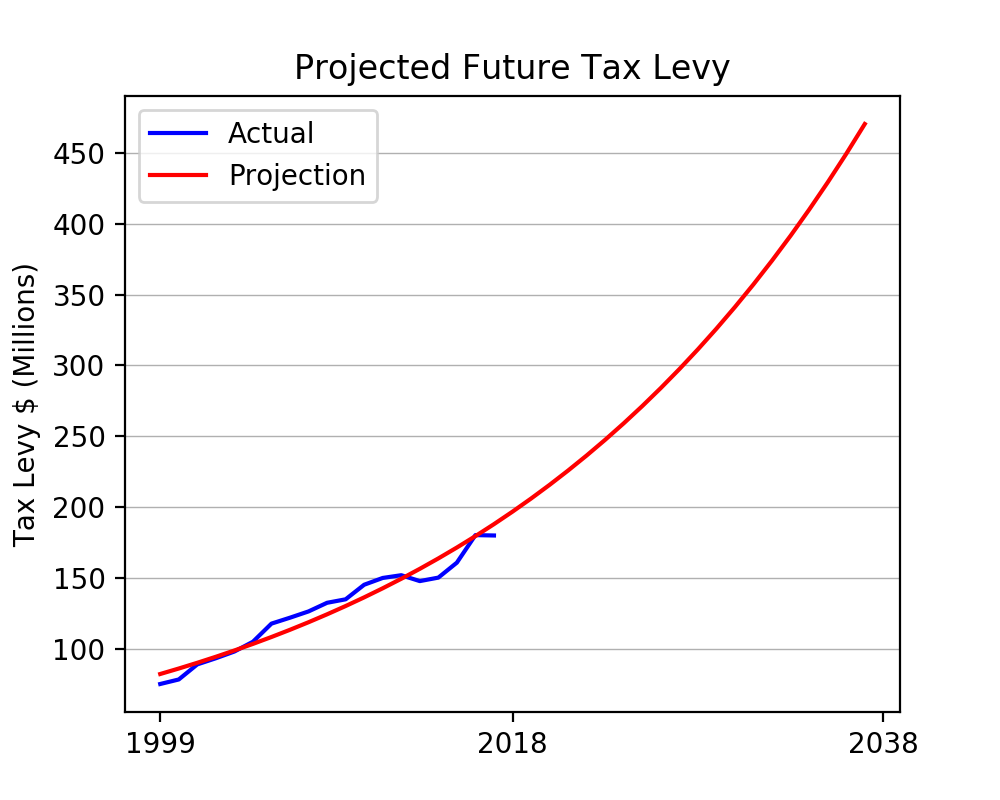
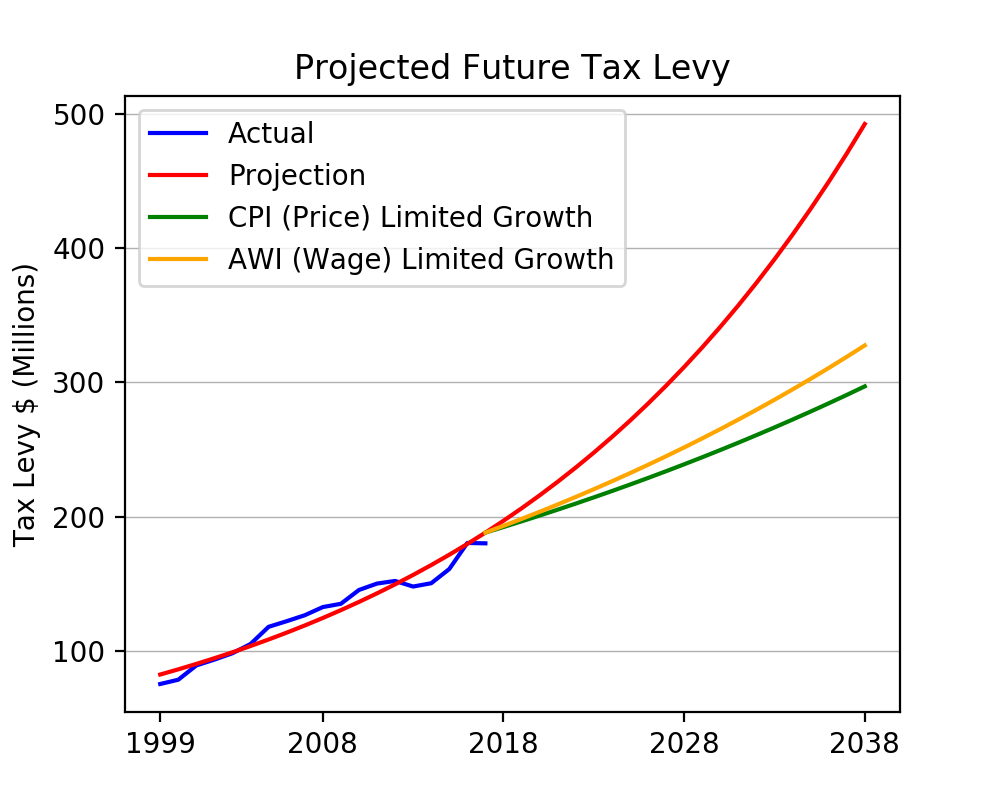
Updatd projections

diff --git a/scripts/projection.py b/scripts/projection.py
@@ -4,19 +4,58 @@ import matplotlib.pyplot as plt
 pivot = pd.read_csv("oak park tax history summary.csv")
 pivot = pivot[pivot['Year'] != 'All']
 baseyear = 2017
-log = np.log(pivot['All'])
+loglevy = np.log(pivot['All'])
+logcpi = np.log(pivot['CPI'])
+logawi = np.log(pivot['AWI'])
 year = np.array(pivot.Year).astype(int)
-fit = np.polyfit(year, y=log, deg=1)
-logfit = pd.DataFrame(index=pd.Series(range(1999, 2038)),  data=np.exp(
-    np.array(pd.Series(range(1999, 2038))) * fit[0] + fit[1]))
+loglevyfit = np.polyfit(year, y=loglevy, deg=1)
+logcpifit =  np.polyfit(year, y=logcpi, deg=1)
+logawifit =  np.polyfit(year, y=logawi, deg=1)
+levyfit = pd.DataFrame(index=pd.Series(range(1999, 2039)),  data=np.exp(
+    np.array(pd.Series(range(1999, 2039))) * loglevyfit[0] + loglevyfit[1]))
+
+cpilevyfit = pd.DataFrame(index=pd.Series(range(1999, 2039)),  data=np.exp(
+    np.array(pd.Series(range(1999, 2039))) * logcpifit[0] + loglevyfit[1]))
+
+cpifit = pd.DataFrame(index=pd.Series(range(1999, 2039)),  data=np.exp(
+    np.array(pd.Series(range(1999, 2039))) * logcpifit[0] + logcpifit[1]))
+awifit = pd.DataFrame(index=pd.Series(range(1999, 2039)),  data=np.exp(
+    np.array(pd.Series(range(1999, 2039))) * logawifit[0] + logawifit[1]))
 levy = pd.DataFrame(pivot)
 levy = levy.set_index(np.array(levy.Year).astype(int))
-tenkfit = pd.DataFrame(index=pd.Series(range(baseyear, 2038)),  data=np.exp(
-    np.array(pd.Series(range(baseyear, 2038))) * fit[0] + fit[1]))
-inflator = logfit[0] / logfit[0][baseyear]
+inflator = levyfit[0] / levyfit[0][baseyear]
 inflator = inflator[inflator.index >= baseyear]
+cpiinflator = cpifit[0] / cpifit[0][baseyear]
+cpiinflator = cpiinflator[cpiinflator.index >= baseyear]
+awiinflator = awifit[0] / awifit[0][baseyear]
+awiinflator = awiinflator[awiinflator.index >= baseyear]
+levyrate = np.exp(loglevyfit[0])-1
+cpirate = np.exp(logcpifit[0])-1
+awirate = np.exp(logawifit[0])-1
+levydouble = np.log(2) / np.log(1 + levyrate)
+cpidouble = np.log(2) / np.log(1 + cpirate)
+awidouble = np.log(2) / np.log(1 + awirate)
 
-final = pd.DataFrame(index=pd.Series(range(1999, 2038), name='Year'), data={
-                     "Levy": levy['All'], "Fit": logfit[0], "10k": 10000*inflator, "12.5k": 12500 * inflator, "15k": 15000 * inflator, "17.5k": 17500 * inflator, "20k": 20000*inflator, "25k": 25000*inflator})
+#Dump the best fit rates to a file based on 1999-2017 observations
+rates = pd.DataFrame(index=pd.Series(("Levy","CPI (Prices)","AWI (Wages)"), name='Type'),data={"Rate": (round(100*levyrate,4),round(100*cpirate,4),round(100*awirate,4)), "Doubling Time": (round(levydouble), round(cpidouble), round(awidouble))})
+rates.to_csv("bestfitrates.csv")
+
+#create the detailed yearly projections table
+final = pd.DataFrame(index=pd.Series(range(1999, 2039), name='Year'), data={
+                     "Levy": levy['All'], "AWI": levy["AWI"], "AWI Fit": awifit[0], "CPI": levy["CPI"], "CPI Fit": cpifit[0], "Levy Fit": levyfit[0], "CPI Projection": cpiinflator* levyfit[0][baseyear],"AWI Projection": awiinflator* levyfit[0][baseyear], "10k": 10000*inflator, "12.5k": 12500 * inflator, "15k": 15000 * inflator, "17.5k": 17500 * inflator, "20k": 20000*inflator, "25k": 25000*inflator,
+					 "CPI 10k": 10000*cpiinflator, "CPI 12.5k": 12500 * cpiinflator, "CPI 15k": 15000 * cpiinflator, "CPI 17.5k": 17500 * cpiinflator, "CPI 20k": 20000*cpiinflator, "CPI 25k": 25000*cpiinflator,
+					 "AWI 10k": 10000*awiinflator, "AWI 12.5k": 12500 * awiinflator, "AWI 15k": 15000 * awiinflator, "AWI 17.5k": 17500 * awiinflator, "AWI 20k": 20000*awiinflator, "AWI 25k": 25000*awiinflator})
 
 final.to_csv('projections.csv')
+
+#Create a summary table for every 10 years
+years = (baseyear, baseyear+10, baseyear+20)
+summary = pd.DataFrame(index=pd.Series(years,name='Year'), data={"Levy": levyfit[0], "CPI Levy": cpiinflator* levyfit[0][baseyear], "AWI Levy": awiinflator* levyfit[0][baseyear], 
+"12.5k": 12500 * inflator, "CPI 12.5k": 12500 * cpiinflator, "AWI 12.5k": 12500 * awiinflator})
+
+summary = pd.DataFrame(index=pd.Series(years,name='Year'), data={"Levy": summary["Levy"], "CPI Levy": summary["CPI Levy"], "AWI Levy": summary["AWI Levy"], "12.5k": summary["12.5k"], "CPI 12.5k":summary["CPI 12.5k"], "AWI 12.5k":summary["AWI 12.5k"],
+"Levy %": 100*(summary["Levy"] - summary["Levy"][years[0]]) / summary["Levy"][years[0]], 
+"CPI %": 100*(summary["CPI Levy"] - summary["CPI Levy"][years[0]]) / summary["CPI Levy"][years[0]],
+"AWI %": 100*(summary["AWI Levy"] - summary["AWI Levy"][years[0]]) / summary["AWI Levy"][years[0]],
+})
+summary.to_csv('projectionssummary.csv')

diff --git a/scripts/assessmentcalcs.py b/scripts/assessmentcalcs.py
@@ -14,6 +14,11 @@ assessments['range'] = (assessments.taxbill / bucketsize)
 assessments['range'] = np.where(
     np.logical_and(assessments['range'] > 0, assessments['range'] < 1000000), assessments['range'], 0)
 assessments.range = assessments.range.astype(int) * bucketsize
+assessments['fiveyearrange'] = assessments.fiveyearbillchangepct / pctbucketsize
+assessments['fiveyearrange'] = np.where(
+    np.logical_and(assessments['fiveyearrange'] > -41 / pctbucketsize, assessments['fiveyearrange'] < 111 / pctbucketsize), assessments['fiveyearrange'], 0)
+assessments.fiveyearrange = assessments.fiveyearrange.astype(
+    int) * pctbucketsize
 assessments['lastyearrange'] = assessments.lastyearbillchangepct / pctbucketsize
 assessments['lastyearrange'] = np.where(
     np.logical_and(assessments['lastyearrange'] > -60 / pctbucketsize, assessments['lastyearrange'] < 70 / pctbucketsize), assessments['lastyearrange'], 0)
@@ -27,9 +32,42 @@ assessments['temp2'] = (
 assessments['rangedescription'] = assessments.temp + assessments.temp2
 assessments = assessments.drop(columns=['temp', 'temp2'], axis=1)
 assessments = assessments.sort_values(by=['range'])
-pivot = assessments.pivot_table( columns=['range'], values='taxbill', aggfunc='count')
+pivot = assessments.pivot_table(
+    columns=['range'], values='taxbill', aggfunc='count')
 pivot = pivot.transpose()
 pivot['rangestr'] = (pivot.index).map('${:,.0f}'.format)
+
+pivot2 = assessments.pivot_table(
+    columns=['fiveyearrange'], values='taxbill', aggfunc='count')
+
+plt.close()
+plt.figure(figsize=(10, 8), dpi=200)
+width = 1
+plt.bar(pivot.rangestr, pivot.taxbill, color='#3366cc', align='edge')
+plt.xticks(rotation=45)
+plt.ylabel("Number of Homes")
+plt.title('Count of Oak Park Single Family Homes by Tax Bill Amount')
+plt.grid(axis='y', linewidth=0.5)
+plt.legend(['Count'])
+
+plt.savefig('charts/taxbillcounts.png')
+pivot.to_csv('assessmentpivot.csv')
+
+pivot2 = pivot2.transpose()
+print(pivot2)
+plt.close()
+plt.figure(figsize=(10, 8), dpi=200)
+pivot2['fiveyearrangestr'] = (pivot2.index).map('{:.0f}%'.format)
+width = 1
+plt.bar(pivot2.fiveyearrangestr, pivot2.taxbill, color='#3366cc', align='edge')
+plt.xticks(rotation=45)
+plt.ylabel("Number of Homes")
+plt.title(
+    'Count of Oak Park Single Family Homes by Tax Bill Percentage Change, 2013-2017')
+plt.grid(axis='y', linewidth=0.5)
+plt.legend(['Count'])
+
+plt.savefig('charts/taxbillpercentagecountsfiveyear.png')
 
 pivot2 = assessments.pivot_table( columns=['lastyearrange'], values='taxbill', aggfunc='count')
 
@@ -60,3 +98,4 @@ plt.grid(axis='y', linewidth=0.5)
 plt.legend(['Count'])
 
 plt.savefig('charts/taxbillpercentagecounts.png')
+

diff --git a/scripts/twelvekcomparison.py b/scripts/twelvekcomparison.py
@@ -1,0 +1,68 @@
+import pandas as pd
+import numpy as np
+import matplotlib.pyplot as plt
+
+baseyear = 2017
+projection = pd.read_csv("projectionssummary.csv")
+projection = projection.set_index(projection.Year)
+tenyears = baseyear + 10
+
+plt.close()
+plt.figure(figsize=(8, 6), dpi=200)
+width = 0.7
+print(projection)
+
+p1 = plt.bar(x="Projected Current Growth", height=projection['12.5k'][tenyears], color='#dc3912')
+p2 = plt.bar(x="Limited to CPI (Price)", height=projection['CPI 12.5k'][tenyears], color='#3366cc')
+p3 = plt.bar(x="Limited to AWI (Wage) ", height=projection['AWI 12.5k'][tenyears], color='#990099')
+
+plt.title('Projected 2027 tax bill for current bill of $12,500')
+#plt.xticks(years, (
+#	str(baseyear), '5 years', '10 years', '15 years', '20 years'))
+def annotate(bar):
+	rects = bar.patches
+	# For each bar: Place a label
+	for rect in rects:
+		# Get X and Y placement of label from rect.
+		y_value = rect.get_height()
+		x_value = rect.get_x() + rect.get_width() / 2
+
+		# Number of points between bar and label. Change to your liking.
+		space = -20
+		# Vertical alignment for positive values
+		va = 'bottom'
+
+		# If value of bar is negative: Place label below bar
+		if y_value < 0:
+			# Invert space to place label below
+			space *= -1
+			# Vertically align label at top
+			va = 'top'
+
+		# Use Y value as label and format number with one decimal place
+		label = "${:,.0f}".format(y_value)
+
+		# Create annotation
+		plt.annotate(
+			label,                      # Use `label` as label
+			(x_value, y_value),         # Place label at end of the bar
+			xytext=(0, space),          # Vertically shift label by `space`
+			textcoords="offset points",  # Interpret `xytext` as offset in points
+			ha='center',                # Horizontally center label
+			va=va,
+			color='white',
+			size=14)
+annotate(p1)
+annotate(p2)
+annotate(p3)
+
+# hide borders
+for spine in plt.gca().spines.values():
+	spine.set_visible(False)
+
+plt.tick_params(top=False, bottom=False, left=False,
+				right=False, labelleft=False, labelbottom=True)
+
+plt.savefig('charts/twelvekcomparison.png')
+
+

diff --git a/scripts/projectionchart.py b/scripts/projectionchart.py
@@ -4,13 +4,30 @@ import matplotlib.pyplot as plt
 
 final = pd.read_csv("projections.csv")
 final = final.set_index(final.Year)
+
 plt.close()
 plt.figure(figsize=(5,4), dpi=200)
 plt.ylabel("Tax Levy $ (Millions)")
 plt.title('Projected Future Tax Levy')
-line1=plt.plot(final.Levy / 1000000, color='blue')
-line2=plt.plot(final.Fit / 1000000, color='red')
-plt.legend(['Actual', 'Projection'])
+line1=plt.plot(final['Levy'] / 1000000, color='blue')
+line2=plt.plot(final['Levy Fit'] / 1000000, color='red')
+plt.plot(final['CPI Projection'] / 1000000, color='green')
+plt.plot(final['AWI Projection'] / 1000000, color='orange')
+plt.legend(['Actual', 'Projection', 'CPI (Price) Limited Growth', 'AWI (Wage) Limited Growth'])
 plt.grid(axis='y', linewidth=0.5)
-plt.xticks([1999, 2018, 2038])
+plt.xticks([1999, 2008, 2018, 2028, 2038])
 plt.savefig('charts/projected future levy.png')
+
+final = final[final.Year < 2029]
+plt.close()
+plt.figure(figsize=(5,4), dpi=200)
+plt.ylabel("Tax Levy $ (Millions)")
+plt.title('Projected Future Tax Levy')
+line1=plt.plot(final['Levy'] / 1000000, color='blue')
+line2=plt.plot(final['Levy Fit'] / 1000000, color='red')
+plt.plot(final['CPI Projection'] / 1000000, color='green')
+plt.plot(final['AWI Projection'] / 1000000, color='orange')
+plt.legend(['Actual', 'Projection', 'CPI (Price) Limited Growth', 'AWI (Wage) Limited Growth'])
+plt.grid(axis='y', linewidth=0.5)
+plt.xticks([1999, 2008, 2018, 2028])
+plt.savefig('charts/projected ten year levy.png')

diff --git a/scripts/assessments.py b/scripts/assessments.py
@@ -61,7 +61,8 @@ sf = sf[combined['fiveyearbillchangepct'] > -100]
 print(sf['lastyearbillchangepct'].describe(
     percentiles=[.1, .2, .3, .4, .5, .6, .7, .8, .9, .95, .99]))
 print(sf['fiveyearbillchangepct'].describe(
-    percentiles=[.1, .2, .3, .4, .5, .6, .7, .8, .9, .95, .99]))
+    percentiles=[.01, .05, .1, .2, .3, .4, .5, .6, .7, .8, .9, .95, .99]))
+print(sf.median())
 import matplotlib.pyplot as plt
 plt.close()
 plt.figure(figsize=(6, 5), dpi=200)
